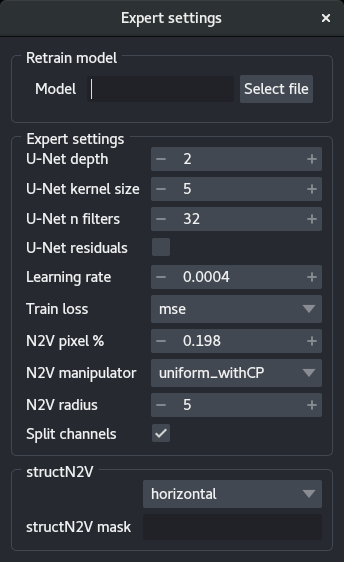
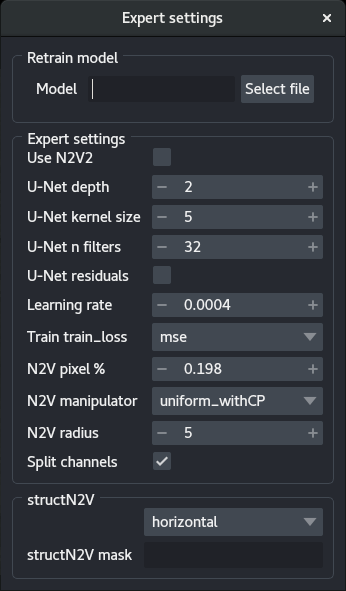
update docs for N2V2

diff --git a/src/napari_n2v/widgets/expert_settings_widget.py b/src/napari_n2v/widgets/expert_settings_widget.py
@@ -50,8 +50,9 @@ class TrainingSettingsWidget(QDialog):
         ####################################################
         # create widgets for expert settings
         label_n2v2 = QLabel('Use N2V2')
-        desc_n2v2 = 'If checked, the model will use N2V2, a version of N2V that prevents' \
-                    'check-board artefacts. This only works with 2D data.'
+        desc_n2v2 = 'If checked, the model will use N2V2, a version of N2V that mitigates\n' \
+                    'check-board artefacts. This only works with 2D data and uses a median\n' \
+                    'pixel manipulator.'
         self.n2v2 = QCheckBox()
         self.n2v2.setChecked(use_n2v2)
         label_n2v2.setToolTip(desc_n2v2)

diff --git a/docs/documentation.md b/docs/documentation.md
@@ -81,6 +81,9 @@ The expert training parameters can be set by clicking on the gear button, modify
 - `Model`:
 Select a `.h5` or `.biomage.io.zip` file to retrain a model. 
 The models should be compatible. The plugin will automatically search for a `config.json` file in the same folder and throw an error if not found.
+- `Use N2V2`:
+Use a variant of N2V2 that mitigates check-board artefacts. This variant uses a slightly different architecture and a `median` pixel 
+manipulator. This is currently only possible in 2D. 
 - `U-Net depth`:
 Depth of the underlying U-Net architecture. Larger architectures are capable of generalizing better but are more complex to train.
 - `U-Net kernel size`:

diff --git a/docs/installation.md b/docs/installation.md
@@ -18,7 +18,7 @@ Then, in your command line tool:
     
     ```bash
     conda install cudatoolkit=11.2 cudnn git -c conda-forge
-    pip install tensorflow==2.5
+    pip install tensorflow==2.7
     ```
     
 3. Install the latest version of N2V
